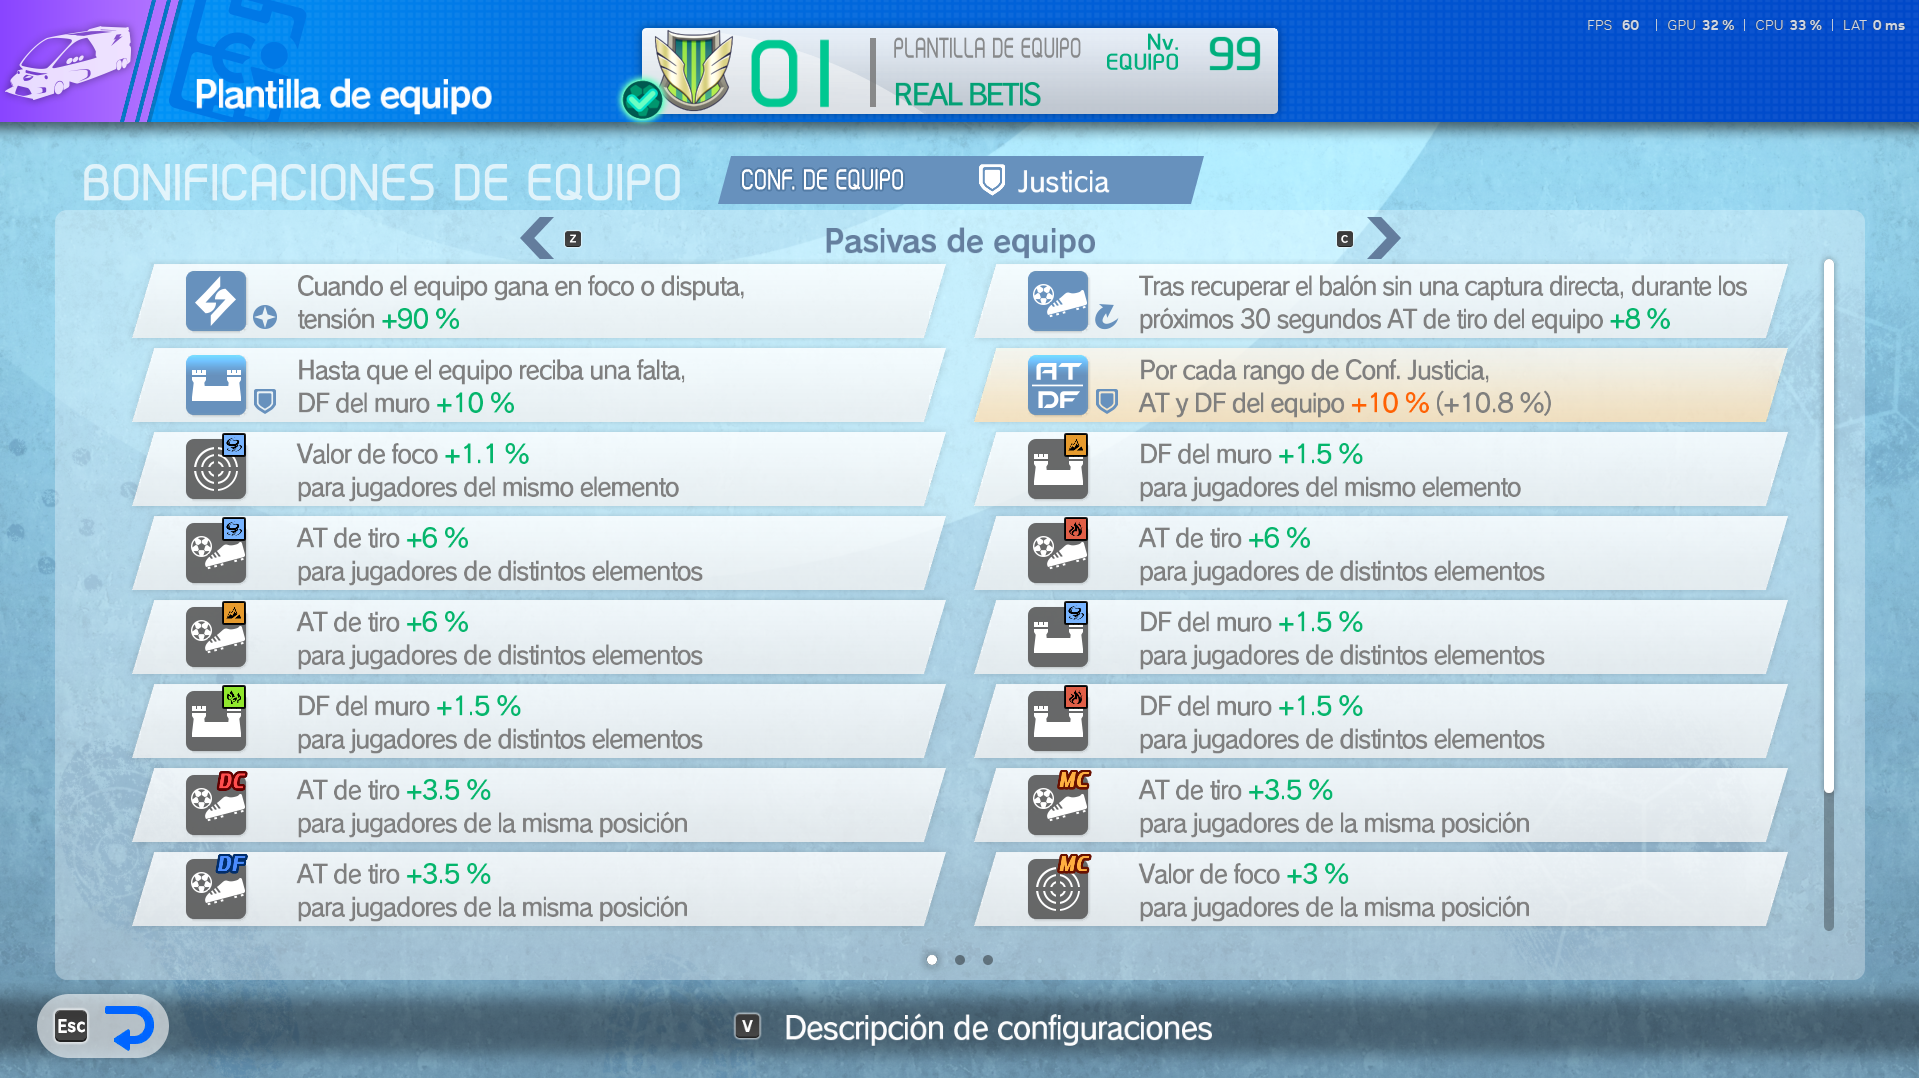
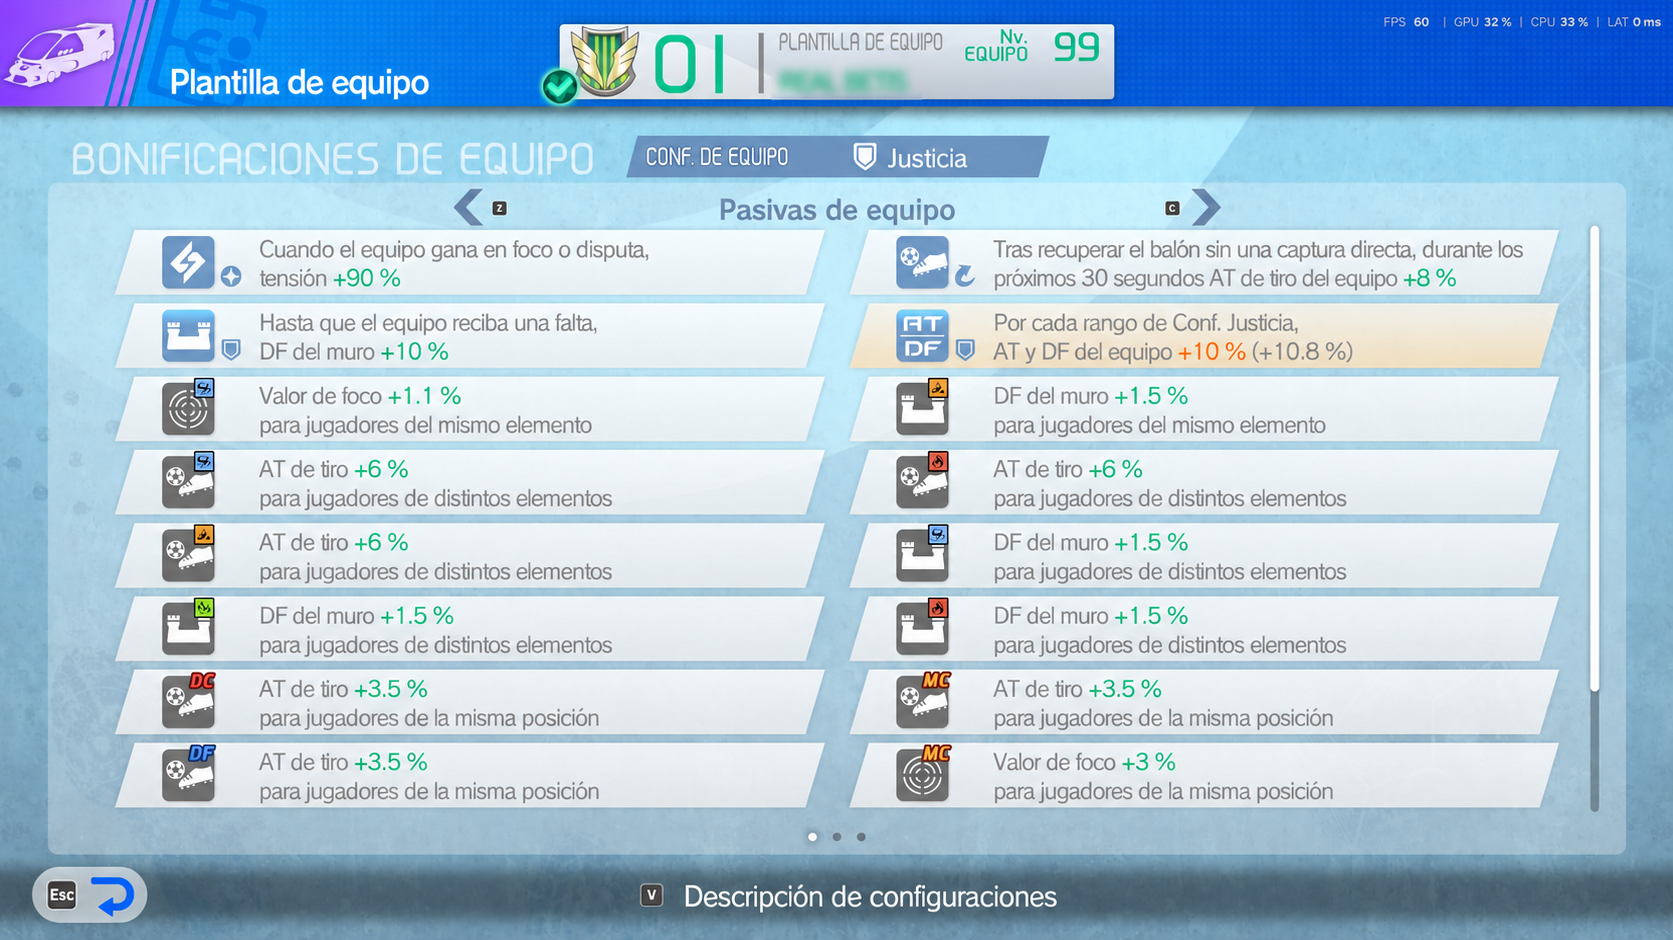
docs: blur personal names in example screenshots

diff --git a/README.md b/README.md
@@ -38,7 +38,7 @@ Keep the game visible and focused. Switching windows pauses Zzen; **Resume** con
 
 **For the best farming results, use a strong, well-equipped in-game team suited to your chosen opponent and difficulty.** Zzen repeats matches in Commander mode; your squad, equipment, tactics and team passives still determine how well it performs. Play a trial match in Commander mode before starting a long session, and choose a difficulty your team can beat consistently. No lineup guarantees every win.
 
-### Example: the author's REAL BETIS squad
+### Example: the author's level 99 squad
 
 The screenshots below show the author's level **99** squad as a reference, not a required roster. Formation, team configuration and tactic names below are English translations of the Spanish labels in the screenshots.
 
@@ -55,7 +55,7 @@ The screenshots below show the author's level **99** squad as a reference, not a
 | Goalkeeper | Mark Evans |
 | Tactics | Flame Fortress, Unyielding Suppression, Shell Formation |
 
-![Author's level 99 REAL BETIS squad and 5-4-1 formation](docs/example-team.png)
+![Author's level 99 squad and 5-4-1 formation, with personal names blurred](docs/example-team.png)
 
 The accompanying passive setup includes **+90% tension when winning a focus or contest**, **+10% wall DF until the team is fouled**, and a **+8% team shot AT bonus for 30 seconds after regaining possession without a direct catch**. These are the values shown in this example; use the screenshots to compare your own setup, and check its performance against the actual match conditions.
 
